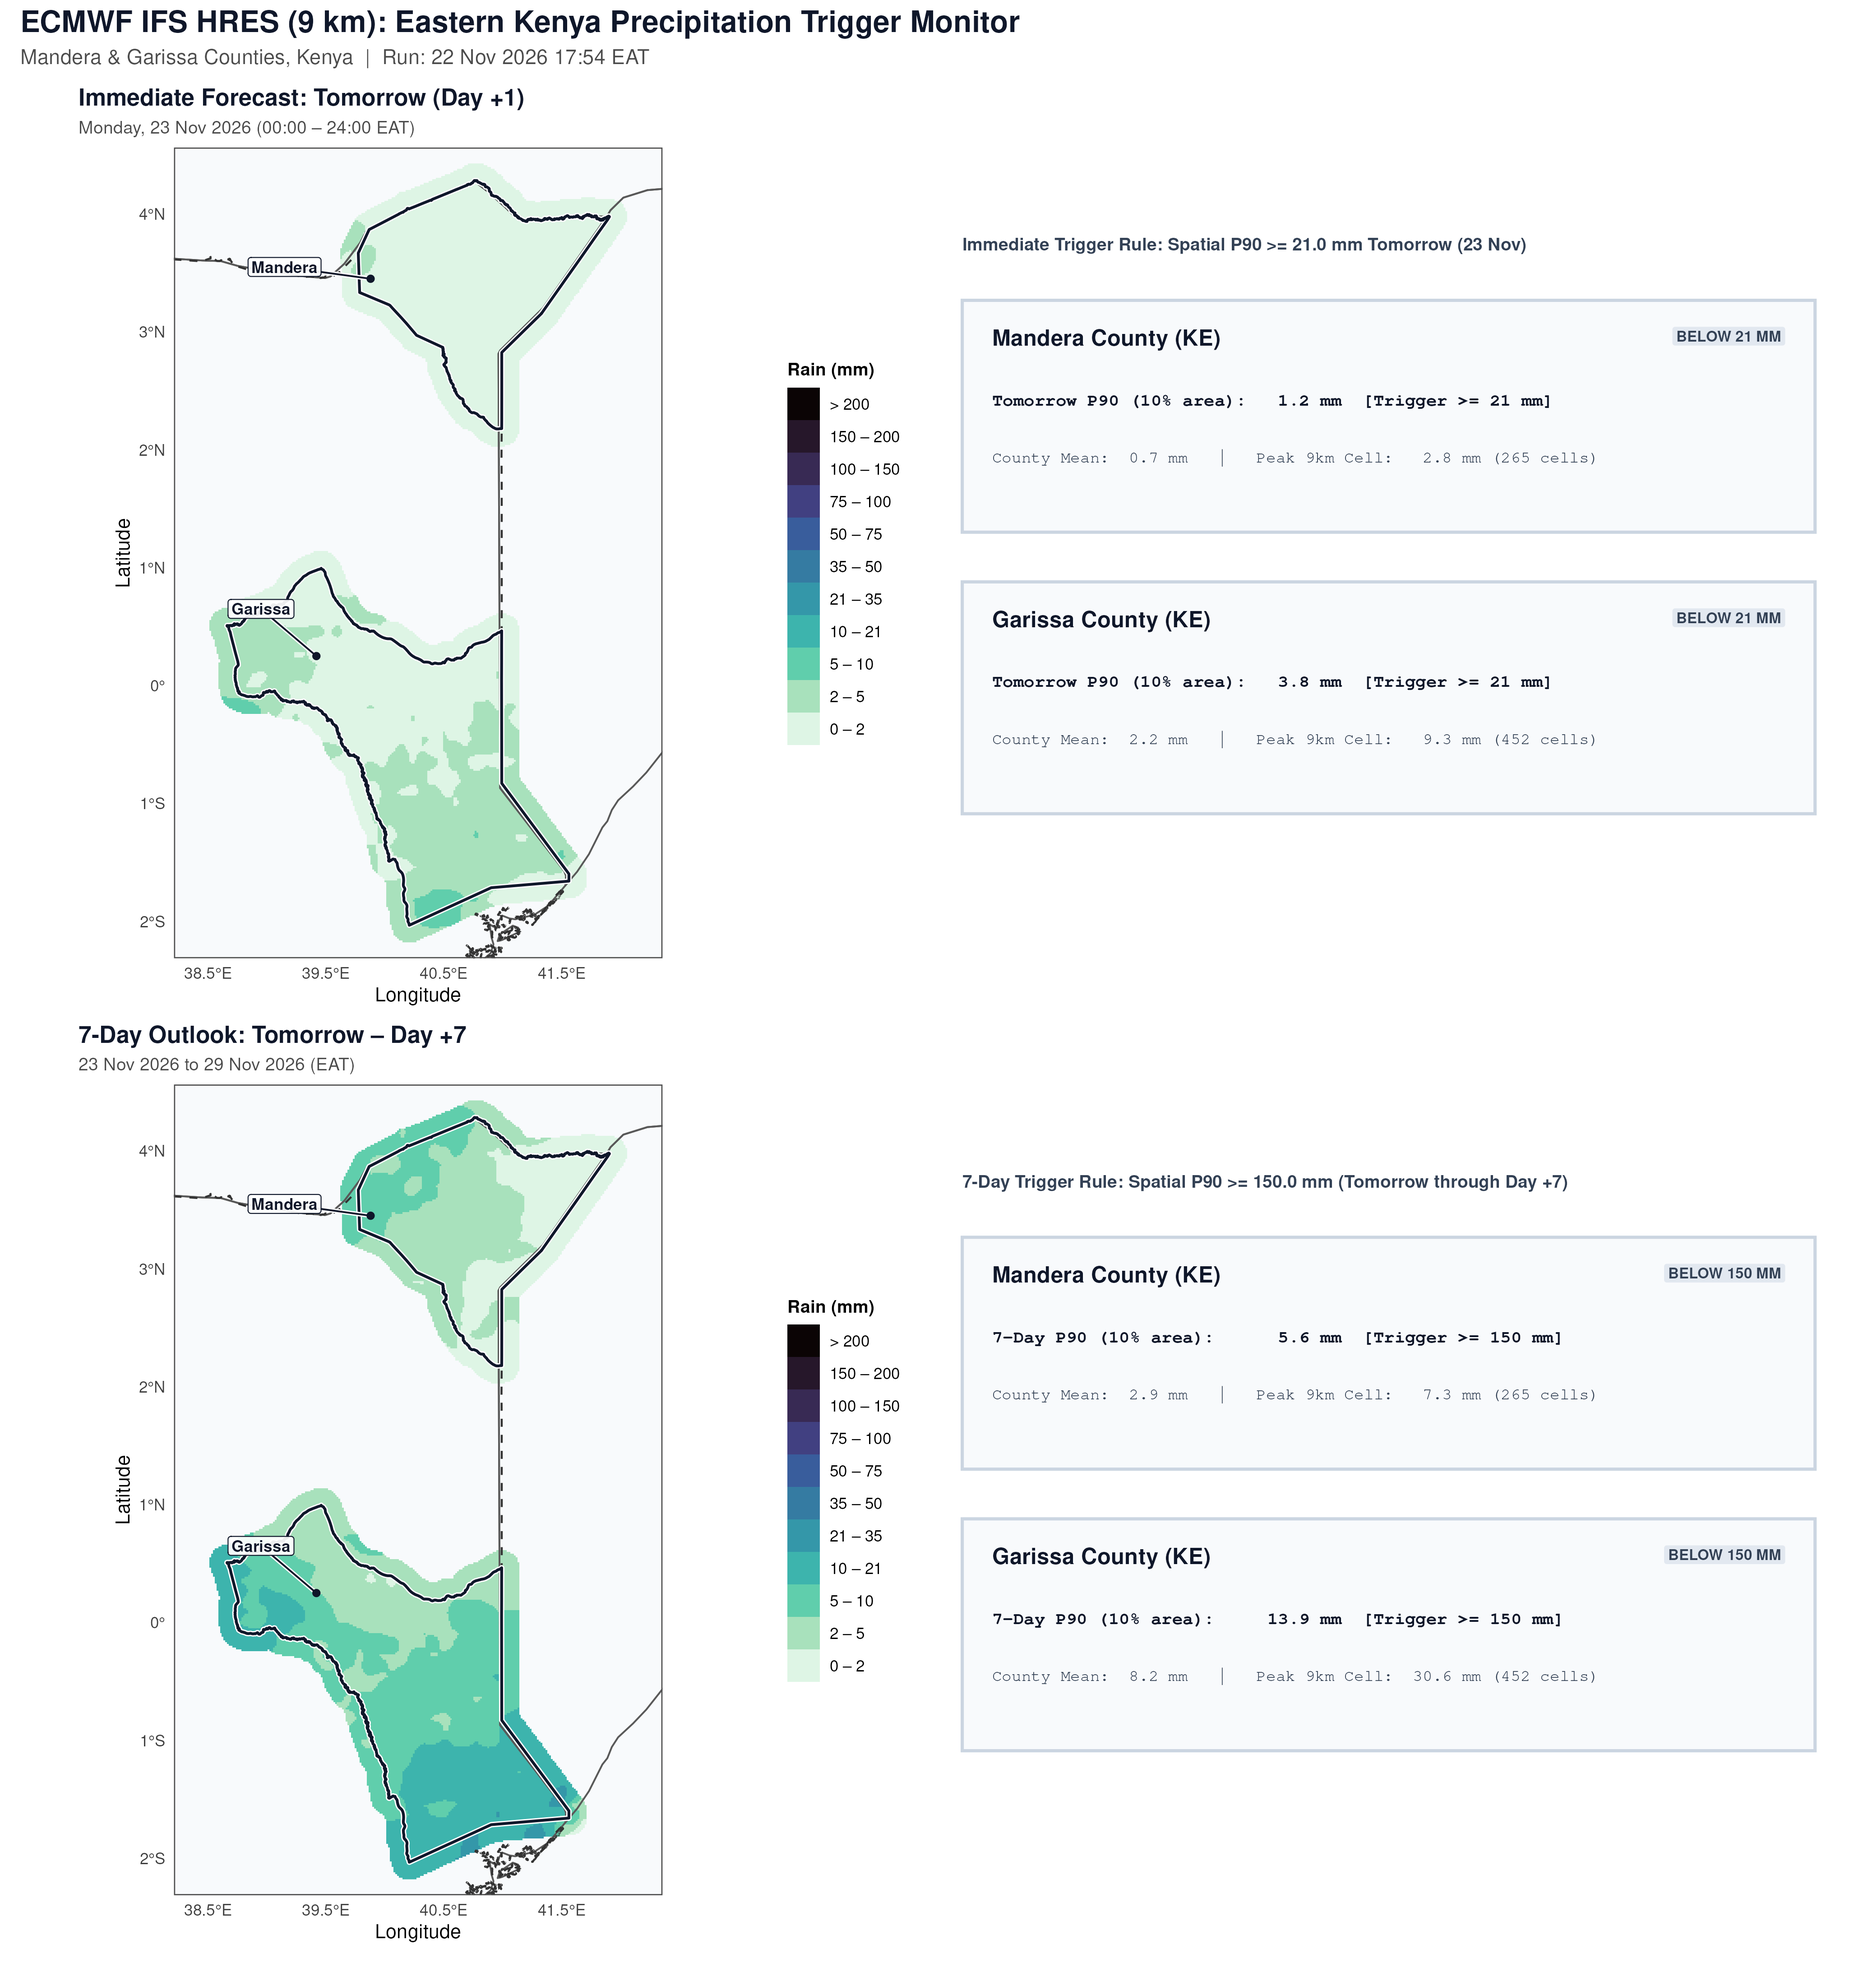
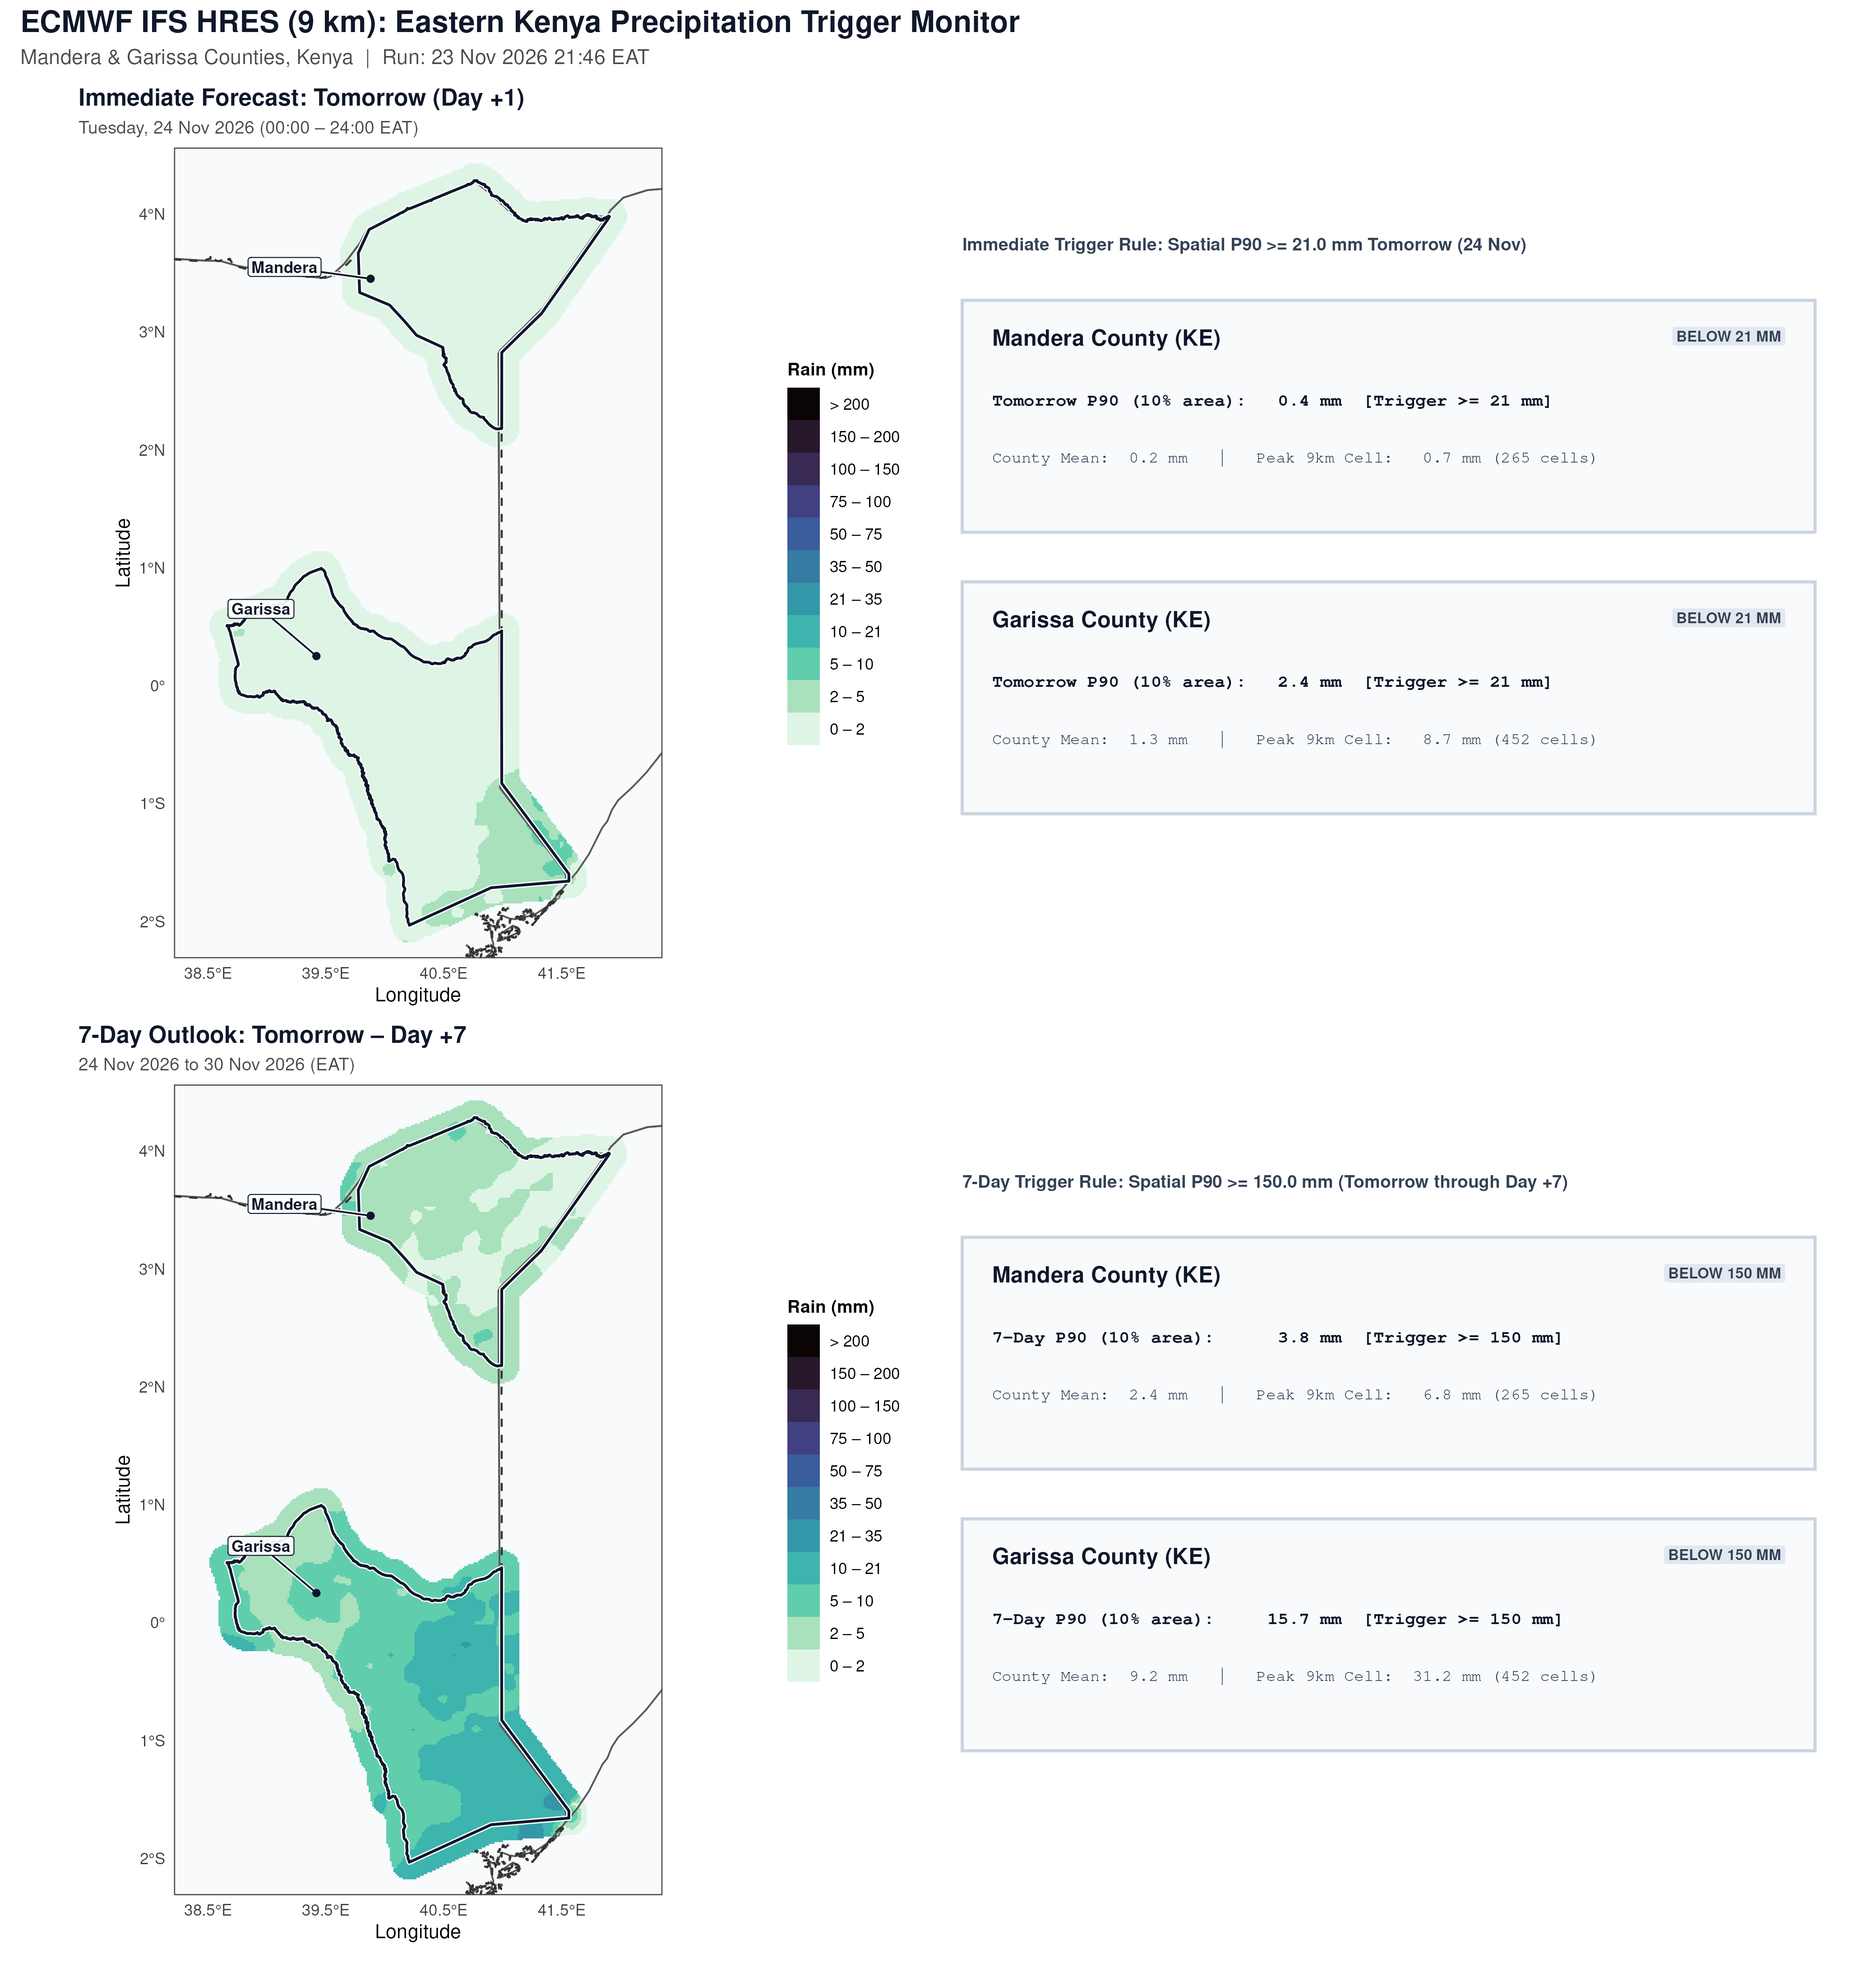
deploy: daacd3f731ed2b8d75df1fdd133b035ab1ab4faf

diff --git a/eastern_kenya/index.html b/eastern_kenya/index.html
@@ -1,1 +1,1 @@
-<!DOCTYPE html><html><head><meta charset='utf-8'><title>Eastern Kenya Trigger Monitor (Mandera &amp; Garissa)</title><style>body{font-family:sans-serif;margin:24px;background:#F8FAFC;color:#0F172A;max-width:1280px;}img{width:100%;height:auto;border:1px solid #CBD5E1;border-radius:6px;background:white;}</style></head><body><h2>Eastern Kenya (Mandera &amp; Garissa) IFS HRES Trigger Dashboard</h2><p>Counties: Mandera &amp; Garissa (KE) | Thresholds: &ge; 21 mm (Tomorrow) / &ge; 150 mm (7-Day) | Last updated: 2026-11-22 17:54 EAT (14:54 UTC) | <a href='trigger_feed.xml'>RSS Trigger Feed</a></p><img src='eastern_kenya_ifs_hres_trigger_dashboard.png?v=1795359296' alt='Eastern Kenya Forecast Dashboard'/></body></html>
+<!DOCTYPE html><html><head><meta charset='utf-8'><title>Eastern Kenya Trigger Monitor (Mandera &amp; Garissa)</title><style>body{font-family:sans-serif;margin:24px;background:#F8FAFC;color:#0F172A;max-width:1280px;}img{width:100%;height:auto;border:1px solid #CBD5E1;border-radius:6px;background:white;}</style></head><body><h2>Eastern Kenya (Mandera &amp; Garissa) IFS HRES Trigger Dashboard</h2><p>Counties: Mandera &amp; Garissa (KE) | Thresholds: &ge; 21 mm (Tomorrow) / &ge; 150 mm (7-Day) | Last updated: 2026-11-23 21:46 EAT (18:46 UTC) | <a href='trigger_feed.xml'>RSS Trigger Feed</a></p><img src='eastern_kenya_ifs_hres_trigger_dashboard.png?v=1795459610' alt='Eastern Kenya Forecast Dashboard'/></body></html>
